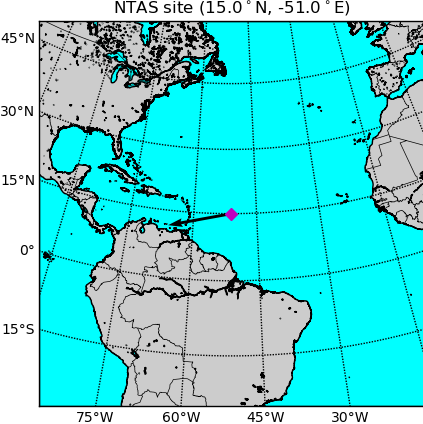
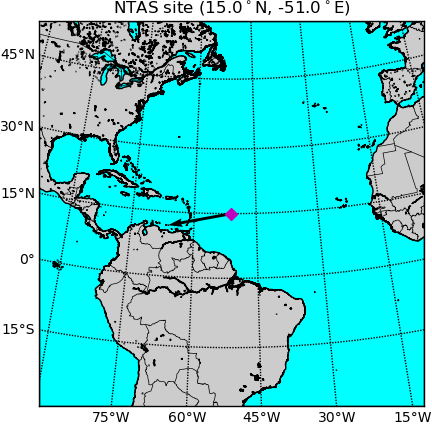
fixed map issue

Changed region(s): [[0.0, 0.0, 1.0, 1.0]]

diff --git a/ERA5_site_plots.py b/ERA5_site_plots.py
@@ -12,18 +12,13 @@ import os
 os.environ['PROJ_LIB'] = r'C:\Users\jtomf\anaconda3\pkgs\cartopy-0.18.0-py38h2a8b5ed_8\Lib\site-packages\cartopy'
 from mpl_toolkits.basemap import Basemap
 import numpy as np
-# from netCDF4 import Dataset
-# from netCDF4 import num2date
-#import netCDF4 as nc
 import matplotlib.pyplot as plt
 import matplotlib as mplt
-# from scipy import signal
-# import datetime
 import nc_time_axis
 import xarray as xr
 import glob
 
-site_name = 'Papa' #can be 'NTAS', 'WHOTS', 'Stratus', or 'Papa'
+site_name = 'NTAS' #can be 'NTAS', 'WHOTS', 'Stratus', or 'Papa'
 
 if site_name=='WHOTS':
     lon_pt = -158 # WHOTS=-158
@@ -120,11 +115,11 @@ plt.savefig(__figdir__+'_Met_summary',**savefig_args)
 
 #############################
 # Site map
-lcc_params={'projection':'lcc', 'lat_1':20.,'lat_2':30,'lat_0':lat_pt,'lon_0':lon_pt,'width':10*10**6,'height':10*10**6, 'resolution':'h'}
-ortho_params = {'projection':'ortho','lat_0':35,'lon_0':lon_pt,'resolution':'l'}
+lcc_params={'projection':'lcc', 'lat_1':lat_pt-5,'lat_2':lat_pt+5,'lat_0':lat_pt,'lon_0':lon_pt,'width':10*10**6,'height':10*10**6, 'resolution':'h'}
+ortho_params = {'projection':'ortho','lat_0':lat_pt,'lon_0':lon_pt,'resolution':'l'}
 dx=5
 dy=5
-cyl_params={'projection':'cyl', 'lat_1':20.,'lat_2':30,'lat_0':lat_pt,'lon_0':lon_pt,'llcrnrlat':lat_pt-dy,'urcrnrlat':lat_pt+dy,'llcrnrlon':lon_pt-dx,'urcrnrlon':lon_pt+dx, 'resolution':'h'}
+cyl_params={'projection':'cyl', 'lat_1':lat_pt-5,'lat_2':lat_pt+5,'lat_0':lat_pt,'lon_0':lon_pt,'llcrnrlat':lat_pt-dy,'urcrnrlat':lat_pt+dy,'llcrnrlon':lon_pt-dx,'urcrnrlon':lon_pt+dx, 'resolution':'h'}
 
 fig = plt.figure(figsize=(12,5))
 map = Basemap(**lcc_params)
